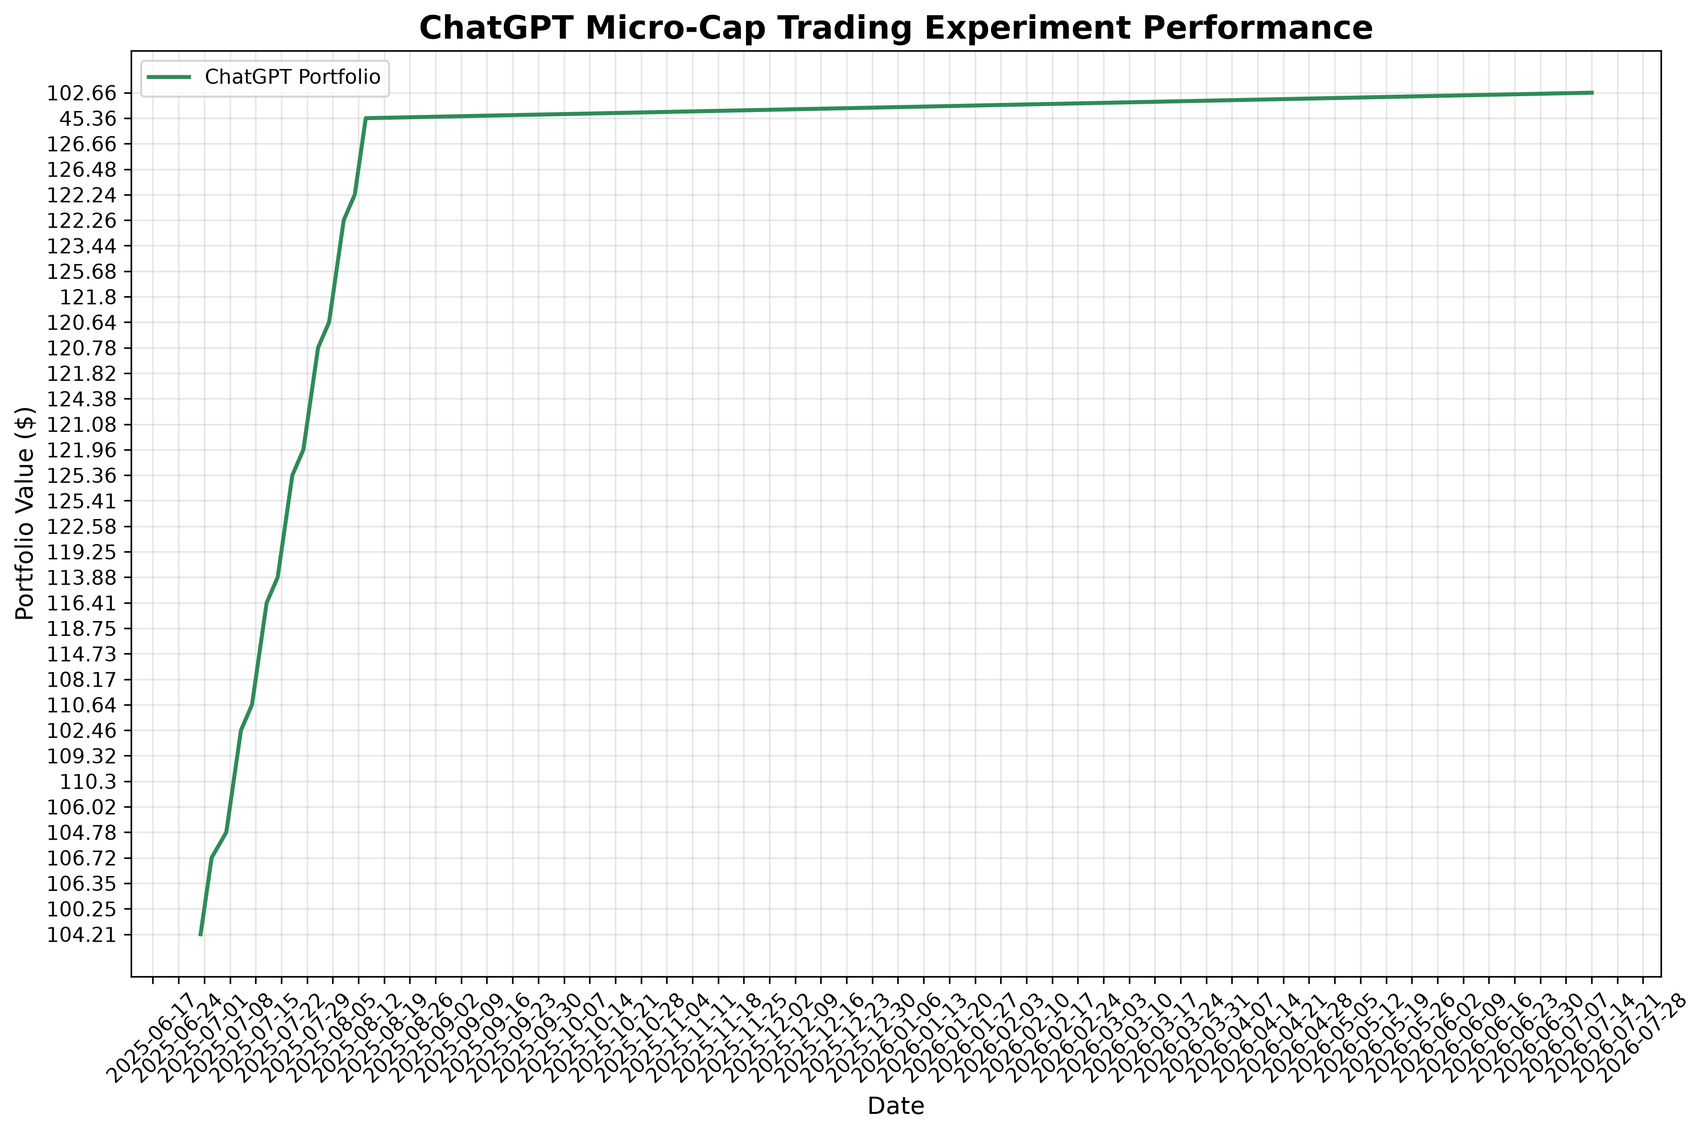
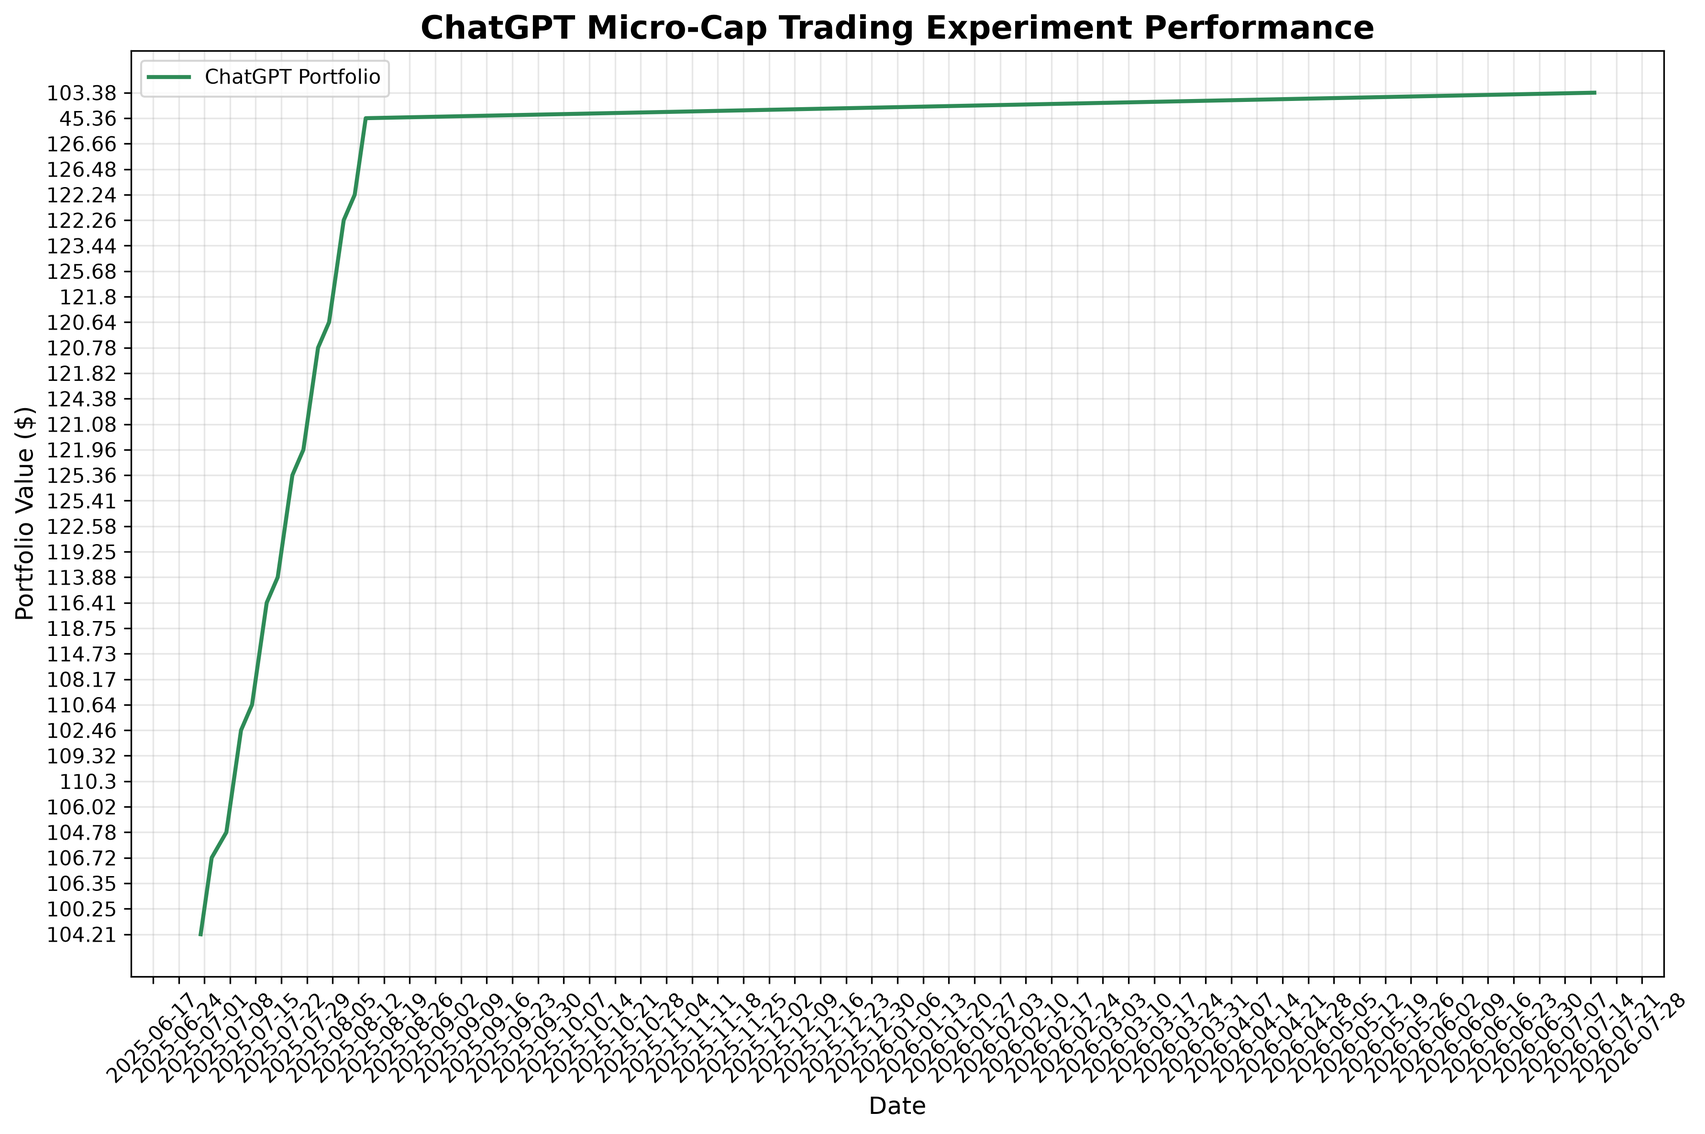
deploy: e15cad030d70fb3fbb51f9df6e22fa70c2f175c0

Changed region(s): [[0.2492, 0.0, 0.8098, 0.0312], [0.0934, 0.8743, 0.3737, 0.9367], [0.4983, 0.9679, 0.5295, 0.9992]]

diff --git a/index.html b/index.html
@@ -105,7 +105,7 @@
                 <div class="stat-label">Total Trades</div>
             </div>
             <div class="stat-card">
-                <div class="stat-value" id="last-updated">2026-07-14</div>
+                <div class="stat-value" id="last-updated">2026-07-15</div>
                 <div class="stat-label">Last Updated</div>
             </div>
         </div>
@@ -160,8 +160,8 @@
     
     <script>
         // Portfolio data
-        const portfolioData = JSON.parse("[{&quot;Date&quot;: &quot;2025-08-11&quot;, &quot;Ticker&quot;: &quot;ABEO&quot;, &quot;Shares&quot;: 4.0, &quot;Buy Price&quot;: 5.77, &quot;Cost Basis&quot;: 23.08, &quot;Stop Loss&quot;: 4.9, &quot;Current Price&quot;: 6.28, &quot;Total Value&quot;: 25.12, &quot;PnL&quot;: 2.04, &quot;Action&quot;: &quot;HOLD&quot;, &quot;Cash Balance&quot;: NaN, &quot;Total Equity&quot;: NaN}, {&quot;Date&quot;: &quot;2025-08-11&quot;, &quot;Ticker&quot;: &quot;ACTU&quot;, &quot;Shares&quot;: 6.0, &quot;Buy Price&quot;: 5.75, &quot;Cost Basis&quot;: 34.5, &quot;Stop Loss&quot;: 4.89, &quot;Current Price&quot;: 8.01, &quot;Total Value&quot;: 48.06, &quot;PnL&quot;: 13.56, &quot;Action&quot;: &quot;HOLD&quot;, &quot;Cash Balance&quot;: NaN, &quot;Total Equity&quot;: NaN}, {&quot;Date&quot;: &quot;2025-08-11&quot;, &quot;Ticker&quot;: &quot;ESPR&quot;, &quot;Shares&quot;: 2.0, &quot;Buy Price&quot;: 1.91, &quot;Cost Basis&quot;: 3.82, &quot;Stop Loss&quot;: 1.6, &quot;Current Price&quot;: 1.85, &quot;Total Value&quot;: 3.7, &quot;PnL&quot;: -0.12, &quot;Action&quot;: &quot;HOLD&quot;, &quot;Cash Balance&quot;: NaN, &quot;Total Equity&quot;: NaN}, {&quot;Date&quot;: &quot;2025-08-11&quot;, &quot;Ticker&quot;: &quot;TOTAL&quot;, &quot;Shares&quot;: NaN, &quot;Buy Price&quot;: NaN, &quot;Cost Basis&quot;: NaN, &quot;Stop Loss&quot;: NaN, &quot;Current Price&quot;: NaN, &quot;Total Value&quot;: 76.88, &quot;PnL&quot;: 15.48, &quot;Action&quot;: NaN, &quot;Cash Balance&quot;: 45.36, &quot;Total Equity&quot;: &quot;122.24&quot;}, {&quot;Date&quot;: &quot;2025-08-12&quot;, &quot;Ticker&quot;: &quot;ABEO&quot;, &quot;Shares&quot;: 4.0, &quot;Buy Price&quot;: 5.77, &quot;Cost Basis&quot;: 23.08, &quot;Stop Loss&quot;: 4.9, &quot;Current Price&quot;: 6.38, &quot;Total Value&quot;: 25.52, &quot;PnL&quot;: 2.44, &quot;Action&quot;: &quot;HOLD&quot;, &quot;Cash Balance&quot;: NaN, &quot;Total Equity&quot;: NaN}, {&quot;Date&quot;: &quot;2025-08-12&quot;, &quot;Ticker&quot;: &quot;ACTU&quot;, &quot;Shares&quot;: 6.0, &quot;Buy Price&quot;: 5.75, &quot;Cost Basis&quot;: 34.5, &quot;Stop Loss&quot;: 4.89, &quot;Current Price&quot;: 8.67, &quot;Total Value&quot;: 52.02, &quot;PnL&quot;: 17.52, &quot;Action&quot;: &quot;HOLD&quot;, &quot;Cash Balance&quot;: NaN, &quot;Total Equity&quot;: NaN}, {&quot;Date&quot;: &quot;2025-08-12&quot;, &quot;Ticker&quot;: &quot;ESPR&quot;, &quot;Shares&quot;: 2.0, &quot;Buy Price&quot;: 1.91, &quot;Cost Basis&quot;: 3.82, &quot;Stop Loss&quot;: 1.6, &quot;Current Price&quot;: 1.79, &quot;Total Value&quot;: 3.58, &quot;PnL&quot;: -0.24, &quot;Action&quot;: &quot;HOLD&quot;, &quot;Cash Balance&quot;: NaN, &quot;Total Equity&quot;: NaN}, {&quot;Date&quot;: &quot;2025-08-12&quot;, &quot;Ticker&quot;: &quot;TOTAL&quot;, &quot;Shares&quot;: NaN, &quot;Buy Price&quot;: NaN, &quot;Cost Basis&quot;: NaN, &quot;Stop Loss&quot;: NaN, &quot;Current Price&quot;: NaN, &quot;Total Value&quot;: 81.12, &quot;PnL&quot;: 19.72, &quot;Action&quot;: NaN, &quot;Cash Balance&quot;: 45.36, &quot;Total Equity&quot;: &quot;126.48&quot;}, {&quot;Date&quot;: &quot;2025-08-13&quot;, &quot;Ticker&quot;: &quot;ABEO&quot;, &quot;Shares&quot;: 4.0, &quot;Buy Price&quot;: 5.77, &quot;Cost Basis&quot;: 23.08, &quot;Stop Loss&quot;: 4.9, &quot;Current Price&quot;: 6.56, &quot;Total Value&quot;: 26.24, &quot;PnL&quot;: 3.16, &quot;Action&quot;: &quot;HOLD&quot;, &quot;Cash Balance&quot;: NaN, &quot;Total Equity&quot;: NaN}, {&quot;Date&quot;: &quot;2025-08-13&quot;, &quot;Ticker&quot;: &quot;ACTU&quot;, &quot;Shares&quot;: 6.0, &quot;Buy Price&quot;: 5.75, &quot;Cost Basis&quot;: 34.5, &quot;Stop Loss&quot;: 4.89, &quot;Current Price&quot;: 8.53, &quot;Total Value&quot;: 51.18, &quot;PnL&quot;: 16.68, &quot;Action&quot;: &quot;HOLD&quot;, &quot;Cash Balance&quot;: NaN, &quot;Total Equity&quot;: NaN}, {&quot;Date&quot;: &quot;2025-08-13&quot;, &quot;Ticker&quot;: &quot;ESPR&quot;, &quot;Shares&quot;: 2.0, &quot;Buy Price&quot;: 1.91, &quot;Cost Basis&quot;: 3.82, &quot;Stop Loss&quot;: 1.6, &quot;Current Price&quot;: 1.94, &quot;Total Value&quot;: 3.88, &quot;PnL&quot;: 0.06, &quot;Action&quot;: &quot;HOLD&quot;, &quot;Cash Balance&quot;: NaN, &quot;Total Equity&quot;: NaN}, {&quot;Date&quot;: &quot;2025-08-13&quot;, &quot;Ticker&quot;: &quot;TOTAL&quot;, &quot;Shares&quot;: NaN, &quot;Buy Price&quot;: NaN, &quot;Cost Basis&quot;: NaN, &quot;Stop Loss&quot;: NaN, &quot;Current Price&quot;: NaN, &quot;Total Value&quot;: 81.3, &quot;PnL&quot;: 19.9, &quot;Action&quot;: NaN, &quot;Cash Balance&quot;: 45.36, &quot;Total Equity&quot;: &quot;126.66&quot;}, {&quot;Date&quot;: &quot;2025-08-14&quot;, &quot;Ticker&quot;: &quot;ABEO&quot;, &quot;Shares&quot;: 4.0, &quot;Buy Price&quot;: 5.77, &quot;Cost Basis&quot;: 23.08, &quot;Stop Loss&quot;: 4.9, &quot;Current Price&quot;: NaN, &quot;Total Value&quot;: NaN, &quot;PnL&quot;: NaN, &quot;Action&quot;: &quot;NO DATA&quot;, &quot;Cash Balance&quot;: NaN, &quot;Total Equity&quot;: NaN}, {&quot;Date&quot;: &quot;2025-08-14&quot;, &quot;Ticker&quot;: &quot;ACTU&quot;, &quot;Shares&quot;: 6.0, &quot;Buy Price&quot;: 5.75, &quot;Cost Basis&quot;: 34.5, &quot;Stop Loss&quot;: 4.89, &quot;Current Price&quot;: NaN, &quot;Total Value&quot;: NaN, &quot;PnL&quot;: NaN, &quot;Action&quot;: &quot;NO DATA&quot;, &quot;Cash Balance&quot;: NaN, &quot;Total Equity&quot;: NaN}, {&quot;Date&quot;: &quot;2025-08-14&quot;, &quot;Ticker&quot;: &quot;ESPR&quot;, &quot;Shares&quot;: 2.0, &quot;Buy Price&quot;: 1.91, &quot;Cost Basis&quot;: 3.82, &quot;Stop Loss&quot;: 1.6, &quot;Current Price&quot;: NaN, &quot;Total Value&quot;: NaN, &quot;PnL&quot;: NaN, &quot;Action&quot;: &quot;NO DATA&quot;, &quot;Cash Balance&quot;: NaN, &quot;Total Equity&quot;: NaN}, {&quot;Date&quot;: &quot;2025-08-14&quot;, &quot;Ticker&quot;: &quot;TOTAL&quot;, &quot;Shares&quot;: NaN, &quot;Buy Price&quot;: NaN, &quot;Cost Basis&quot;: NaN, &quot;Stop Loss&quot;: NaN, &quot;Current Price&quot;: NaN, &quot;Total Value&quot;: 0.0, &quot;PnL&quot;: 0.0, &quot;Action&quot;: NaN, &quot;Cash Balance&quot;: 45.36, &quot;Total Equity&quot;: &quot;45.36&quot;}, {&quot;Date&quot;: &quot;2026-07-14&quot;, &quot;Ticker&quot;: &quot;ABEO&quot;, &quot;Shares&quot;: 4.0, &quot;Buy Price&quot;: 5.77, &quot;Cost Basis&quot;: 23.08, &quot;Stop Loss&quot;: 4.9, &quot;Current Price&quot;: 6.99, &quot;Total Value&quot;: 27.96, &quot;PnL&quot;: 4.88, &quot;Action&quot;: &quot;HOLD&quot;, &quot;Cash Balance&quot;: NaN, &quot;Total Equity&quot;: NaN}, {&quot;Date&quot;: &quot;2026-07-14&quot;, &quot;Ticker&quot;: &quot;ACTU&quot;, &quot;Shares&quot;: 6.0, &quot;Buy Price&quot;: 5.75, &quot;Cost Basis&quot;: 34.5, &quot;Stop Loss&quot;: 4.89, &quot;Current Price&quot;: 4.89, &quot;Total Value&quot;: 29.34, &quot;PnL&quot;: -5.16, &quot;Action&quot;: &quot;SELL - Stop Loss Triggered&quot;, &quot;Cash Balance&quot;: NaN, &quot;Total Equity&quot;: NaN}, {&quot;Date&quot;: &quot;2026-07-14&quot;, &quot;Ticker&quot;: &quot;ESPR&quot;, &quot;Shares&quot;: 2.0, &quot;Buy Price&quot;: 1.91, &quot;Cost Basis&quot;: 3.82, &quot;Stop Loss&quot;: 1.6, &quot;Current Price&quot;: NaN, &quot;Total Value&quot;: NaN, &quot;PnL&quot;: NaN, &quot;Action&quot;: &quot;NO DATA&quot;, &quot;Cash Balance&quot;: NaN, &quot;Total Equity&quot;: NaN}, {&quot;Date&quot;: &quot;2026-07-14&quot;, &quot;Ticker&quot;: &quot;TOTAL&quot;, &quot;Shares&quot;: NaN, &quot;Buy Price&quot;: NaN, &quot;Cost Basis&quot;: NaN, &quot;Stop Loss&quot;: NaN, &quot;Current Price&quot;: NaN, &quot;Total Value&quot;: 27.96, &quot;PnL&quot;: 4.88, &quot;Action&quot;: NaN, &quot;Cash Balance&quot;: 74.7, &quot;Total Equity&quot;: &quot;102.66&quot;}]");
-        const tradeData = JSON.parse("[{&quot;Date&quot;: &quot;2025-07-08&quot;, &quot;Ticker&quot;: &quot;IINN&quot;, &quot;Shares Bought&quot;: 20.0, &quot;Buy Price&quot;: 1.5, &quot;Cost Basis&quot;: 30.0, &quot;PnL&quot;: 0.0, &quot;Reason&quot;: &quot;MANUAL BUY - New position&quot;, &quot;Shares Sold&quot;: NaN, &quot;Sell Price&quot;: NaN}, {&quot;Date&quot;: &quot;2025-07-21&quot;, &quot;Ticker&quot;: &quot;CADL&quot;, &quot;Shares Bought&quot;: NaN, &quot;Buy Price&quot;: NaN, &quot;Cost Basis&quot;: 25.2, &quot;PnL&quot;: 8.5, &quot;Reason&quot;: &quot;MANUAL SELL - GAIN CAPITAL FOR ACTU&quot;, &quot;Shares Sold&quot;: 5.0, &quot;Sell Price&quot;: 6.59}, {&quot;Date&quot;: &quot;2025-07-21&quot;, &quot;Ticker&quot;: &quot;ACTU&quot;, &quot;Shares Bought&quot;: 6.0, &quot;Buy Price&quot;: 5.75, &quot;Cost Basis&quot;: 34.5, &quot;PnL&quot;: 0.0, &quot;Reason&quot;: &quot;MANUAL BUY - New position&quot;, &quot;Shares Sold&quot;: NaN, &quot;Sell Price&quot;: NaN}, {&quot;Date&quot;: &quot;2025-07-28&quot;, &quot;Ticker&quot;: &quot;IINN&quot;, &quot;Shares Bought&quot;: NaN, &quot;Buy Price&quot;: NaN, &quot;Cost Basis&quot;: 9.0, &quot;PnL&quot;: -0.5400000000000009, &quot;Reason&quot;: &quot;MANUAL SELL - POSITION REDUCTION&quot;, &quot;Shares Sold&quot;: 6.0, &quot;Sell Price&quot;: 1.41}, {&quot;Date&quot;: &quot;2025-07-29&quot;, &quot;Ticker&quot;: &quot;AZTR&quot;, &quot;Shares Bought&quot;: NaN, &quot;Buy Price&quot;: NaN, &quot;Cost Basis&quot;: 13.75, &quot;PnL&quot;: -2.75, &quot;Reason&quot;: &quot;MANUAL SELL - DILUTION RISK&quot;, &quot;Shares Sold&quot;: 55.0, &quot;Sell Price&quot;: 0.2}, {&quot;Date&quot;: &quot;2025-08-01&quot;, &quot;Ticker&quot;: &quot;IINN&quot;, &quot;Shares Bought&quot;: 2.0, &quot;Buy Price&quot;: 1.74, &quot;Cost Basis&quot;: 3.48, &quot;PnL&quot;: 0.0, &quot;Reason&quot;: &quot;MANUAL BUY - New position&quot;, &quot;Shares Sold&quot;: NaN, &quot;Sell Price&quot;: NaN}, {&quot;Date&quot;: &quot;2025-08-01&quot;, &quot;Ticker&quot;: &quot;ABEO&quot;, &quot;Shares Bought&quot;: NaN, &quot;Buy Price&quot;: NaN, &quot;Cost Basis&quot;: 11.54, &quot;PnL&quot;: 1.200000000000001, &quot;Reason&quot;: &quot;MANUAL SELL - TRIM AFTER SUPPORT LOSS&quot;, &quot;Shares Sold&quot;: 2.0, &quot;Sell Price&quot;: 6.37}, {&quot;Date&quot;: &quot;2025-08-07&quot;, &quot;Ticker&quot;: &quot;ESPR&quot;, &quot;Shares Bought&quot;: 2.0, &quot;Buy Price&quot;: 1.91, &quot;Cost Basis&quot;: 3.82, &quot;PnL&quot;: 0.0, &quot;Reason&quot;: &quot;MANUAL BUY - New position&quot;, &quot;Shares Sold&quot;: NaN, &quot;Sell Price&quot;: NaN}, {&quot;Date&quot;: &quot;2025-08-08&quot;, &quot;Ticker&quot;: &quot;IINN&quot;, &quot;Shares Bought&quot;: NaN, &quot;Buy Price&quot;: NaN, &quot;Cost Basis&quot;: 1.5, &quot;PnL&quot;: -6.4, &quot;Reason&quot;: &quot;AUTOMATED SELL - STOPLOSS TRIGGERED&quot;, &quot;Shares Sold&quot;: 16.0, &quot;Sell Price&quot;: 1.1}, {&quot;Date&quot;: &quot;2026-07-14&quot;, &quot;Ticker&quot;: &quot;ACTU&quot;, &quot;Shares Bought&quot;: NaN, &quot;Buy Price&quot;: NaN, &quot;Cost Basis&quot;: 5.75, &quot;PnL&quot;: -5.16, &quot;Reason&quot;: &quot;AUTOMATED SELL - STOPLOSS TRIGGERED&quot;, &quot;Shares Sold&quot;: 6.0, &quot;Sell Price&quot;: 4.89}]");
+        const portfolioData = JSON.parse("[{&quot;Date&quot;: &quot;2025-08-11&quot;, &quot;Ticker&quot;: &quot;ABEO&quot;, &quot;Shares&quot;: 4.0, &quot;Buy Price&quot;: 5.77, &quot;Cost Basis&quot;: 23.08, &quot;Stop Loss&quot;: 4.9, &quot;Current Price&quot;: 6.28, &quot;Total Value&quot;: 25.12, &quot;PnL&quot;: 2.04, &quot;Action&quot;: &quot;HOLD&quot;, &quot;Cash Balance&quot;: NaN, &quot;Total Equity&quot;: NaN}, {&quot;Date&quot;: &quot;2025-08-11&quot;, &quot;Ticker&quot;: &quot;ACTU&quot;, &quot;Shares&quot;: 6.0, &quot;Buy Price&quot;: 5.75, &quot;Cost Basis&quot;: 34.5, &quot;Stop Loss&quot;: 4.89, &quot;Current Price&quot;: 8.01, &quot;Total Value&quot;: 48.06, &quot;PnL&quot;: 13.56, &quot;Action&quot;: &quot;HOLD&quot;, &quot;Cash Balance&quot;: NaN, &quot;Total Equity&quot;: NaN}, {&quot;Date&quot;: &quot;2025-08-11&quot;, &quot;Ticker&quot;: &quot;ESPR&quot;, &quot;Shares&quot;: 2.0, &quot;Buy Price&quot;: 1.91, &quot;Cost Basis&quot;: 3.82, &quot;Stop Loss&quot;: 1.6, &quot;Current Price&quot;: 1.85, &quot;Total Value&quot;: 3.7, &quot;PnL&quot;: -0.12, &quot;Action&quot;: &quot;HOLD&quot;, &quot;Cash Balance&quot;: NaN, &quot;Total Equity&quot;: NaN}, {&quot;Date&quot;: &quot;2025-08-11&quot;, &quot;Ticker&quot;: &quot;TOTAL&quot;, &quot;Shares&quot;: NaN, &quot;Buy Price&quot;: NaN, &quot;Cost Basis&quot;: NaN, &quot;Stop Loss&quot;: NaN, &quot;Current Price&quot;: NaN, &quot;Total Value&quot;: 76.88, &quot;PnL&quot;: 15.48, &quot;Action&quot;: NaN, &quot;Cash Balance&quot;: 45.36, &quot;Total Equity&quot;: &quot;122.24&quot;}, {&quot;Date&quot;: &quot;2025-08-12&quot;, &quot;Ticker&quot;: &quot;ABEO&quot;, &quot;Shares&quot;: 4.0, &quot;Buy Price&quot;: 5.77, &quot;Cost Basis&quot;: 23.08, &quot;Stop Loss&quot;: 4.9, &quot;Current Price&quot;: 6.38, &quot;Total Value&quot;: 25.52, &quot;PnL&quot;: 2.44, &quot;Action&quot;: &quot;HOLD&quot;, &quot;Cash Balance&quot;: NaN, &quot;Total Equity&quot;: NaN}, {&quot;Date&quot;: &quot;2025-08-12&quot;, &quot;Ticker&quot;: &quot;ACTU&quot;, &quot;Shares&quot;: 6.0, &quot;Buy Price&quot;: 5.75, &quot;Cost Basis&quot;: 34.5, &quot;Stop Loss&quot;: 4.89, &quot;Current Price&quot;: 8.67, &quot;Total Value&quot;: 52.02, &quot;PnL&quot;: 17.52, &quot;Action&quot;: &quot;HOLD&quot;, &quot;Cash Balance&quot;: NaN, &quot;Total Equity&quot;: NaN}, {&quot;Date&quot;: &quot;2025-08-12&quot;, &quot;Ticker&quot;: &quot;ESPR&quot;, &quot;Shares&quot;: 2.0, &quot;Buy Price&quot;: 1.91, &quot;Cost Basis&quot;: 3.82, &quot;Stop Loss&quot;: 1.6, &quot;Current Price&quot;: 1.79, &quot;Total Value&quot;: 3.58, &quot;PnL&quot;: -0.24, &quot;Action&quot;: &quot;HOLD&quot;, &quot;Cash Balance&quot;: NaN, &quot;Total Equity&quot;: NaN}, {&quot;Date&quot;: &quot;2025-08-12&quot;, &quot;Ticker&quot;: &quot;TOTAL&quot;, &quot;Shares&quot;: NaN, &quot;Buy Price&quot;: NaN, &quot;Cost Basis&quot;: NaN, &quot;Stop Loss&quot;: NaN, &quot;Current Price&quot;: NaN, &quot;Total Value&quot;: 81.12, &quot;PnL&quot;: 19.72, &quot;Action&quot;: NaN, &quot;Cash Balance&quot;: 45.36, &quot;Total Equity&quot;: &quot;126.48&quot;}, {&quot;Date&quot;: &quot;2025-08-13&quot;, &quot;Ticker&quot;: &quot;ABEO&quot;, &quot;Shares&quot;: 4.0, &quot;Buy Price&quot;: 5.77, &quot;Cost Basis&quot;: 23.08, &quot;Stop Loss&quot;: 4.9, &quot;Current Price&quot;: 6.56, &quot;Total Value&quot;: 26.24, &quot;PnL&quot;: 3.16, &quot;Action&quot;: &quot;HOLD&quot;, &quot;Cash Balance&quot;: NaN, &quot;Total Equity&quot;: NaN}, {&quot;Date&quot;: &quot;2025-08-13&quot;, &quot;Ticker&quot;: &quot;ACTU&quot;, &quot;Shares&quot;: 6.0, &quot;Buy Price&quot;: 5.75, &quot;Cost Basis&quot;: 34.5, &quot;Stop Loss&quot;: 4.89, &quot;Current Price&quot;: 8.53, &quot;Total Value&quot;: 51.18, &quot;PnL&quot;: 16.68, &quot;Action&quot;: &quot;HOLD&quot;, &quot;Cash Balance&quot;: NaN, &quot;Total Equity&quot;: NaN}, {&quot;Date&quot;: &quot;2025-08-13&quot;, &quot;Ticker&quot;: &quot;ESPR&quot;, &quot;Shares&quot;: 2.0, &quot;Buy Price&quot;: 1.91, &quot;Cost Basis&quot;: 3.82, &quot;Stop Loss&quot;: 1.6, &quot;Current Price&quot;: 1.94, &quot;Total Value&quot;: 3.88, &quot;PnL&quot;: 0.06, &quot;Action&quot;: &quot;HOLD&quot;, &quot;Cash Balance&quot;: NaN, &quot;Total Equity&quot;: NaN}, {&quot;Date&quot;: &quot;2025-08-13&quot;, &quot;Ticker&quot;: &quot;TOTAL&quot;, &quot;Shares&quot;: NaN, &quot;Buy Price&quot;: NaN, &quot;Cost Basis&quot;: NaN, &quot;Stop Loss&quot;: NaN, &quot;Current Price&quot;: NaN, &quot;Total Value&quot;: 81.3, &quot;PnL&quot;: 19.9, &quot;Action&quot;: NaN, &quot;Cash Balance&quot;: 45.36, &quot;Total Equity&quot;: &quot;126.66&quot;}, {&quot;Date&quot;: &quot;2025-08-14&quot;, &quot;Ticker&quot;: &quot;ABEO&quot;, &quot;Shares&quot;: 4.0, &quot;Buy Price&quot;: 5.77, &quot;Cost Basis&quot;: 23.08, &quot;Stop Loss&quot;: 4.9, &quot;Current Price&quot;: NaN, &quot;Total Value&quot;: NaN, &quot;PnL&quot;: NaN, &quot;Action&quot;: &quot;NO DATA&quot;, &quot;Cash Balance&quot;: NaN, &quot;Total Equity&quot;: NaN}, {&quot;Date&quot;: &quot;2025-08-14&quot;, &quot;Ticker&quot;: &quot;ACTU&quot;, &quot;Shares&quot;: 6.0, &quot;Buy Price&quot;: 5.75, &quot;Cost Basis&quot;: 34.5, &quot;Stop Loss&quot;: 4.89, &quot;Current Price&quot;: NaN, &quot;Total Value&quot;: NaN, &quot;PnL&quot;: NaN, &quot;Action&quot;: &quot;NO DATA&quot;, &quot;Cash Balance&quot;: NaN, &quot;Total Equity&quot;: NaN}, {&quot;Date&quot;: &quot;2025-08-14&quot;, &quot;Ticker&quot;: &quot;ESPR&quot;, &quot;Shares&quot;: 2.0, &quot;Buy Price&quot;: 1.91, &quot;Cost Basis&quot;: 3.82, &quot;Stop Loss&quot;: 1.6, &quot;Current Price&quot;: NaN, &quot;Total Value&quot;: NaN, &quot;PnL&quot;: NaN, &quot;Action&quot;: &quot;NO DATA&quot;, &quot;Cash Balance&quot;: NaN, &quot;Total Equity&quot;: NaN}, {&quot;Date&quot;: &quot;2025-08-14&quot;, &quot;Ticker&quot;: &quot;TOTAL&quot;, &quot;Shares&quot;: NaN, &quot;Buy Price&quot;: NaN, &quot;Cost Basis&quot;: NaN, &quot;Stop Loss&quot;: NaN, &quot;Current Price&quot;: NaN, &quot;Total Value&quot;: 0.0, &quot;PnL&quot;: 0.0, &quot;Action&quot;: NaN, &quot;Cash Balance&quot;: 45.36, &quot;Total Equity&quot;: &quot;45.36&quot;}, {&quot;Date&quot;: &quot;2026-07-15&quot;, &quot;Ticker&quot;: &quot;ABEO&quot;, &quot;Shares&quot;: 4.0, &quot;Buy Price&quot;: 5.77, &quot;Cost Basis&quot;: 23.08, &quot;Stop Loss&quot;: 4.9, &quot;Current Price&quot;: 7.17, &quot;Total Value&quot;: 28.68, &quot;PnL&quot;: 5.6, &quot;Action&quot;: &quot;HOLD&quot;, &quot;Cash Balance&quot;: NaN, &quot;Total Equity&quot;: NaN}, {&quot;Date&quot;: &quot;2026-07-15&quot;, &quot;Ticker&quot;: &quot;ACTU&quot;, &quot;Shares&quot;: 6.0, &quot;Buy Price&quot;: 5.75, &quot;Cost Basis&quot;: 34.5, &quot;Stop Loss&quot;: 4.89, &quot;Current Price&quot;: 4.89, &quot;Total Value&quot;: 29.34, &quot;PnL&quot;: -5.16, &quot;Action&quot;: &quot;SELL - Stop Loss Triggered&quot;, &quot;Cash Balance&quot;: NaN, &quot;Total Equity&quot;: NaN}, {&quot;Date&quot;: &quot;2026-07-15&quot;, &quot;Ticker&quot;: &quot;ESPR&quot;, &quot;Shares&quot;: 2.0, &quot;Buy Price&quot;: 1.91, &quot;Cost Basis&quot;: 3.82, &quot;Stop Loss&quot;: 1.6, &quot;Current Price&quot;: NaN, &quot;Total Value&quot;: NaN, &quot;PnL&quot;: NaN, &quot;Action&quot;: &quot;NO DATA&quot;, &quot;Cash Balance&quot;: NaN, &quot;Total Equity&quot;: NaN}, {&quot;Date&quot;: &quot;2026-07-15&quot;, &quot;Ticker&quot;: &quot;TOTAL&quot;, &quot;Shares&quot;: NaN, &quot;Buy Price&quot;: NaN, &quot;Cost Basis&quot;: NaN, &quot;Stop Loss&quot;: NaN, &quot;Current Price&quot;: NaN, &quot;Total Value&quot;: 28.68, &quot;PnL&quot;: 5.6, &quot;Action&quot;: NaN, &quot;Cash Balance&quot;: 74.7, &quot;Total Equity&quot;: &quot;103.38&quot;}]");
+        const tradeData = JSON.parse("[{&quot;Date&quot;: &quot;2025-07-08&quot;, &quot;Ticker&quot;: &quot;IINN&quot;, &quot;Shares Bought&quot;: 20.0, &quot;Buy Price&quot;: 1.5, &quot;Cost Basis&quot;: 30.0, &quot;PnL&quot;: 0.0, &quot;Reason&quot;: &quot;MANUAL BUY - New position&quot;, &quot;Shares Sold&quot;: NaN, &quot;Sell Price&quot;: NaN}, {&quot;Date&quot;: &quot;2025-07-21&quot;, &quot;Ticker&quot;: &quot;CADL&quot;, &quot;Shares Bought&quot;: NaN, &quot;Buy Price&quot;: NaN, &quot;Cost Basis&quot;: 25.2, &quot;PnL&quot;: 8.5, &quot;Reason&quot;: &quot;MANUAL SELL - GAIN CAPITAL FOR ACTU&quot;, &quot;Shares Sold&quot;: 5.0, &quot;Sell Price&quot;: 6.59}, {&quot;Date&quot;: &quot;2025-07-21&quot;, &quot;Ticker&quot;: &quot;ACTU&quot;, &quot;Shares Bought&quot;: 6.0, &quot;Buy Price&quot;: 5.75, &quot;Cost Basis&quot;: 34.5, &quot;PnL&quot;: 0.0, &quot;Reason&quot;: &quot;MANUAL BUY - New position&quot;, &quot;Shares Sold&quot;: NaN, &quot;Sell Price&quot;: NaN}, {&quot;Date&quot;: &quot;2025-07-28&quot;, &quot;Ticker&quot;: &quot;IINN&quot;, &quot;Shares Bought&quot;: NaN, &quot;Buy Price&quot;: NaN, &quot;Cost Basis&quot;: 9.0, &quot;PnL&quot;: -0.5400000000000009, &quot;Reason&quot;: &quot;MANUAL SELL - POSITION REDUCTION&quot;, &quot;Shares Sold&quot;: 6.0, &quot;Sell Price&quot;: 1.41}, {&quot;Date&quot;: &quot;2025-07-29&quot;, &quot;Ticker&quot;: &quot;AZTR&quot;, &quot;Shares Bought&quot;: NaN, &quot;Buy Price&quot;: NaN, &quot;Cost Basis&quot;: 13.75, &quot;PnL&quot;: -2.75, &quot;Reason&quot;: &quot;MANUAL SELL - DILUTION RISK&quot;, &quot;Shares Sold&quot;: 55.0, &quot;Sell Price&quot;: 0.2}, {&quot;Date&quot;: &quot;2025-08-01&quot;, &quot;Ticker&quot;: &quot;IINN&quot;, &quot;Shares Bought&quot;: 2.0, &quot;Buy Price&quot;: 1.74, &quot;Cost Basis&quot;: 3.48, &quot;PnL&quot;: 0.0, &quot;Reason&quot;: &quot;MANUAL BUY - New position&quot;, &quot;Shares Sold&quot;: NaN, &quot;Sell Price&quot;: NaN}, {&quot;Date&quot;: &quot;2025-08-01&quot;, &quot;Ticker&quot;: &quot;ABEO&quot;, &quot;Shares Bought&quot;: NaN, &quot;Buy Price&quot;: NaN, &quot;Cost Basis&quot;: 11.54, &quot;PnL&quot;: 1.200000000000001, &quot;Reason&quot;: &quot;MANUAL SELL - TRIM AFTER SUPPORT LOSS&quot;, &quot;Shares Sold&quot;: 2.0, &quot;Sell Price&quot;: 6.37}, {&quot;Date&quot;: &quot;2025-08-07&quot;, &quot;Ticker&quot;: &quot;ESPR&quot;, &quot;Shares Bought&quot;: 2.0, &quot;Buy Price&quot;: 1.91, &quot;Cost Basis&quot;: 3.82, &quot;PnL&quot;: 0.0, &quot;Reason&quot;: &quot;MANUAL BUY - New position&quot;, &quot;Shares Sold&quot;: NaN, &quot;Sell Price&quot;: NaN}, {&quot;Date&quot;: &quot;2025-08-08&quot;, &quot;Ticker&quot;: &quot;IINN&quot;, &quot;Shares Bought&quot;: NaN, &quot;Buy Price&quot;: NaN, &quot;Cost Basis&quot;: 1.5, &quot;PnL&quot;: -6.4, &quot;Reason&quot;: &quot;AUTOMATED SELL - STOPLOSS TRIGGERED&quot;, &quot;Shares Sold&quot;: 16.0, &quot;Sell Price&quot;: 1.1}, {&quot;Date&quot;: &quot;2026-07-15&quot;, &quot;Ticker&quot;: &quot;ACTU&quot;, &quot;Shares Bought&quot;: NaN, &quot;Buy Price&quot;: NaN, &quot;Cost Basis&quot;: 5.75, &quot;PnL&quot;: -5.16, &quot;Reason&quot;: &quot;AUTOMATED SELL - STOPLOSS TRIGGERED&quot;, &quot;Shares Sold&quot;: 6.0, &quot;Sell Price&quot;: 4.89}]");
         
         // Update total equity
         if (portfolioData.length > 0) {
